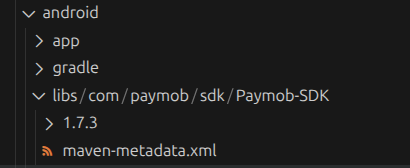
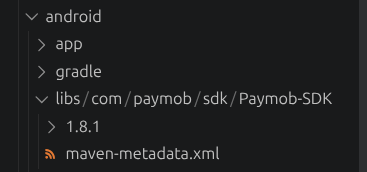
chore: bump to 1.2.0, update native SDKs (Android 1.8.1, iOS 1.3.3)

diff --git a/README.md b/README.md
@@ -21,18 +21,18 @@ Run `flutter pub add paymob`.
 
 Before using this plugin, you must download and configure the native Paymob SDKs:
 
-- **Android SDK:** Version **1.7.3** (required)
-- **iOS SDK:** Version **1.2.2** (required)
+- **Android SDK:** Version **1.8.1** (required)
+- **iOS SDK:** Version **1.3.3** (required)
 
 ## Android Setup
 
-**Important:** The Paymob Android SDK is not included in this plugin. You must download and configure **version 1.7.3** in your app.
+**Important:** The Paymob Android SDK is not included in this plugin. You must download and configure **version 1.8.1** in your app.
 
-1. **Download Paymob Android SDK 1.7.3** from [here](https://paymob-my.sharepoint.com/:f:/p/ahmedsobhy/EjQrdOdzUzhIqlQmcsE9Hg0BOVjJYOu2BMGRClGVEa9dJA?e=hfFnnI). Look for `PaymobAndroidSDK1.7.3` in the package.
+1. **Download Paymob Android SDK 1.8.1** from [here](https://paymob-my.sharepoint.com/:f:/p/ahmedsobhy/EjQrdOdzUzhIqlQmcsE9Hg0BOVjJYOu2BMGRClGVEa9dJA?e=hfFnnI). Look for `PaymobAndroidSDK1.8.1` in the package.
 
 2. **Add SDK to your app:**
    - Create `android/libs/` directory
-   - Place the AAR file there: `android/libs/com/paymob/sdk/Paymob-SDK/1.7.3/Paymob-SDK-1.7.3.aar`
+   - Place the AAR file there: `android/libs/com/paymob/sdk/Paymob-SDK/1.8.1/Paymob-SDK-1.8.1.aar`
 
    ![Android Setup Step 1](https://raw.githubusercontent.com/gyoussef55/paymob/main/pictures/Android_1.png)
 
@@ -80,9 +80,9 @@ Before using this plugin, you must download and configure the native Paymob SDKs
 
 ## iOS Setup
 
-**Important:** The Paymob iOS SDK is not included in this plugin. You must download and configure **version 1.2.2** in your project.
+**Important:** The Paymob iOS SDK is not included in this plugin. You must download and configure **version 1.3.3** in your project.
 
-1. **Download Paymob iOS SDK 1.2.2** from [here](https://paymob-my.sharepoint.com/:f:/p/mahmoudyoussef/El9q1ULaxcBFkQurwvXkZQEBY9S-6dwhWL9xXQgjEnGPBQ?e=0sKgCf). Look for `PaymobSDK 1.2.2` (xcframework) in the package.
+1. **Download Paymob iOS SDK 1.3.3** from [here](https://paymob-my.sharepoint.com/:f:/p/mahmoudyoussef/El9q1ULaxcBFkQurwvXkZQEBY9S-6dwhWL9xXQgjEnGPBQ?e=0sKgCf). Look for `PaymobSDK 1.3.3` (xcframework) in the package.
 
 2. **Add SDK to your project:**
    - Copy the `PaymobSDK.xcframework` folder to your `ios/Frameworks/` directory

diff --git a/CHANGELOG.md b/CHANGELOG.md
@@ -2,6 +2,12 @@
 
 All notable changes to this project will be documented in this file.
 
+## [1.2.0]
+
+### Changed
+- **Android:** Updated native Paymob SDK to 1.8.1
+- **iOS:** Updated native Paymob SDK to 1.3.3
+
 ## [1.1.2]
 
 ### Fixed
